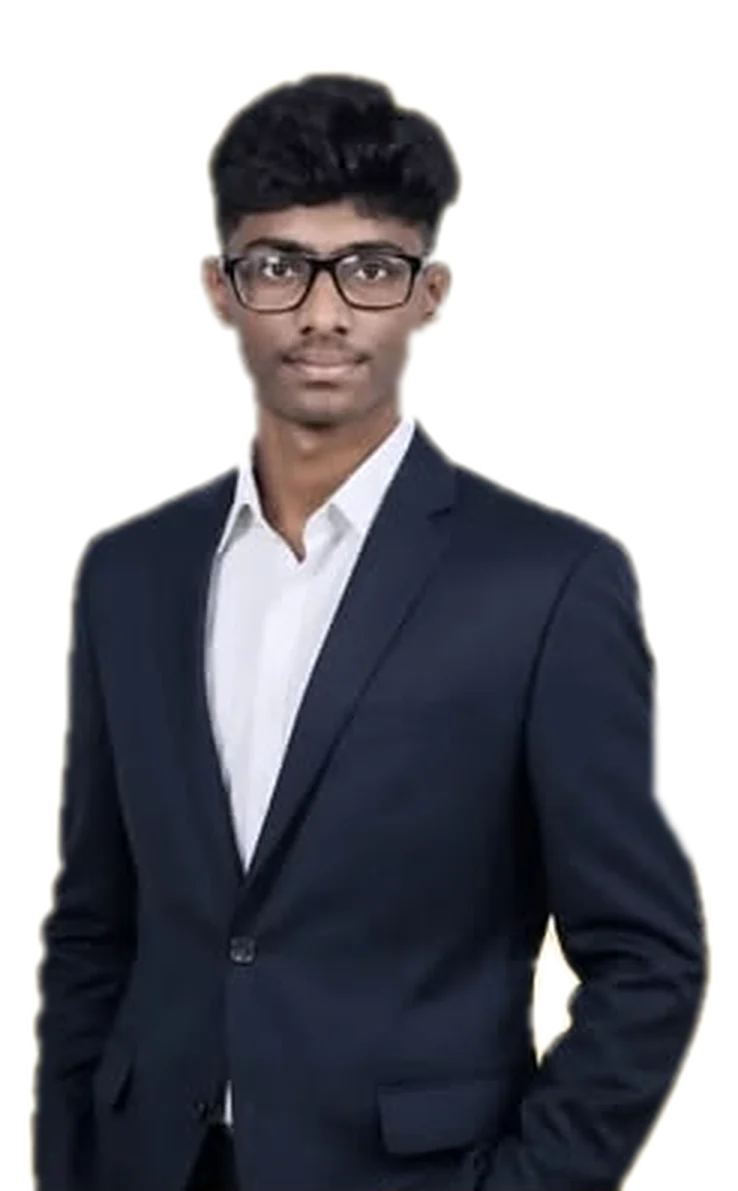
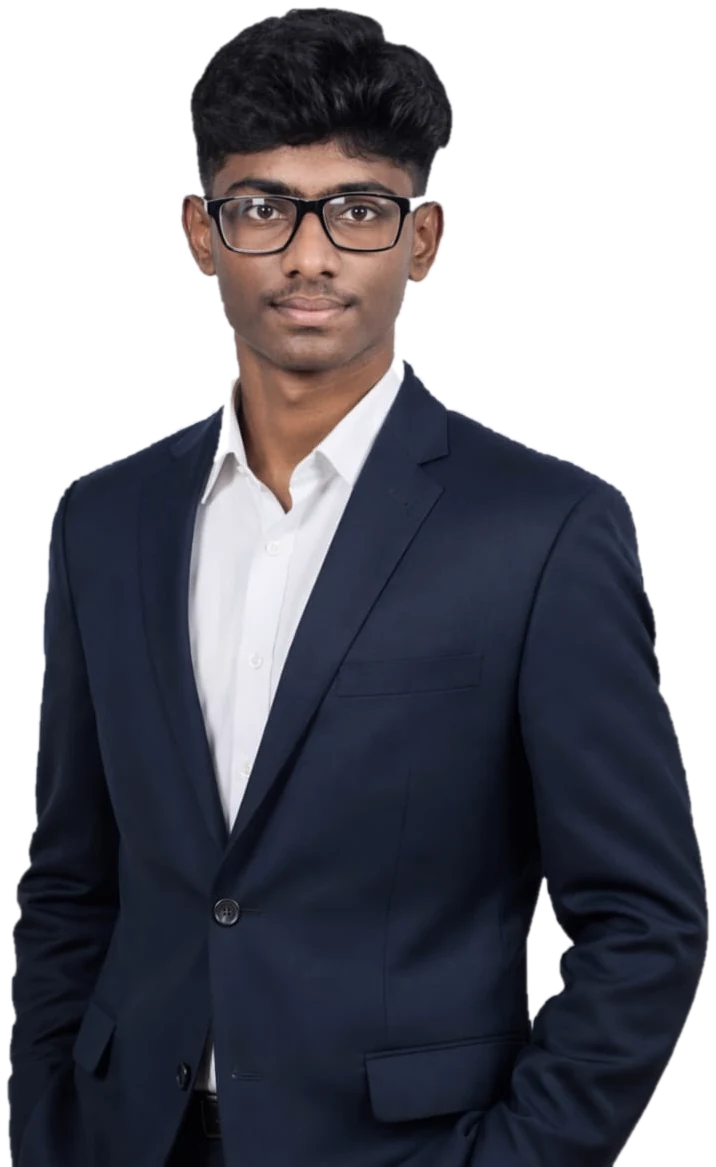
Use the studio portrait in the hero
Replace the soft poster crop with a sharp studio photo, cut off its grey
backdrop at full resolution.

diff --git a/index.html b/index.html
@@ -58,7 +58,7 @@
 
     <!-- Hero -->
     <section class="hero" id="top">
-      <img class="hero__portrait" src="assets/field/me-hero.webp" width="738" height="1191" alt="Vishvajit S" fetchpriority="high">
+      <img class="hero__portrait" src="assets/field/me-hero.webp" width="716" height="1167" alt="Vishvajit S" fetchpriority="high">
       <div class="hero__inner">
         <div class="hero__chip">
           <ul class="hero__creds">

diff --git a/README.md b/README.md
@@ -35,7 +35,7 @@ Drop a JPG with the matching name into `assets/projects/`. It appears in its car
 
 Aim for landscape images about 1600 px wide and under 300 kB each.
 
-`assets/field/` holds the photos used across the page: `me-hero.webp` in the hero (cut out of the TNSDC congratulations poster, with transparency, so it blends into the page), the IndiaSkills, RPC and Aerothon competition cards, the Pilot section, and About. They were cropped from Instagram story screenshots (app UI, captions and stickers removed) and given a light, slightly cool grade so they match the page. They are low resolution (576 px wide, from the phone screenshots), so replacing them with the original photos will look sharper. Keep the file names, and update the `width`/`height` attributes in `index.html` if the aspect ratio changes.
+`assets/field/` holds the photos used across the page: `me-hero.webp` in the hero (a studio portrait cut off its grey backdrop, with transparency, so it blends into the page), the IndiaSkills, RPC and Aerothon competition cards, the Pilot section, and About. They were cropped from Instagram story screenshots (app UI, captions and stickers removed) and given a light, slightly cool grade so they match the page. They are low resolution (576 px wide, from the phone screenshots), so replacing them with the original photos will look sharper. Keep the file names, and update the `width`/`height` attributes in `index.html` if the aspect ratio changes.
 
 ## Preview locally
 
